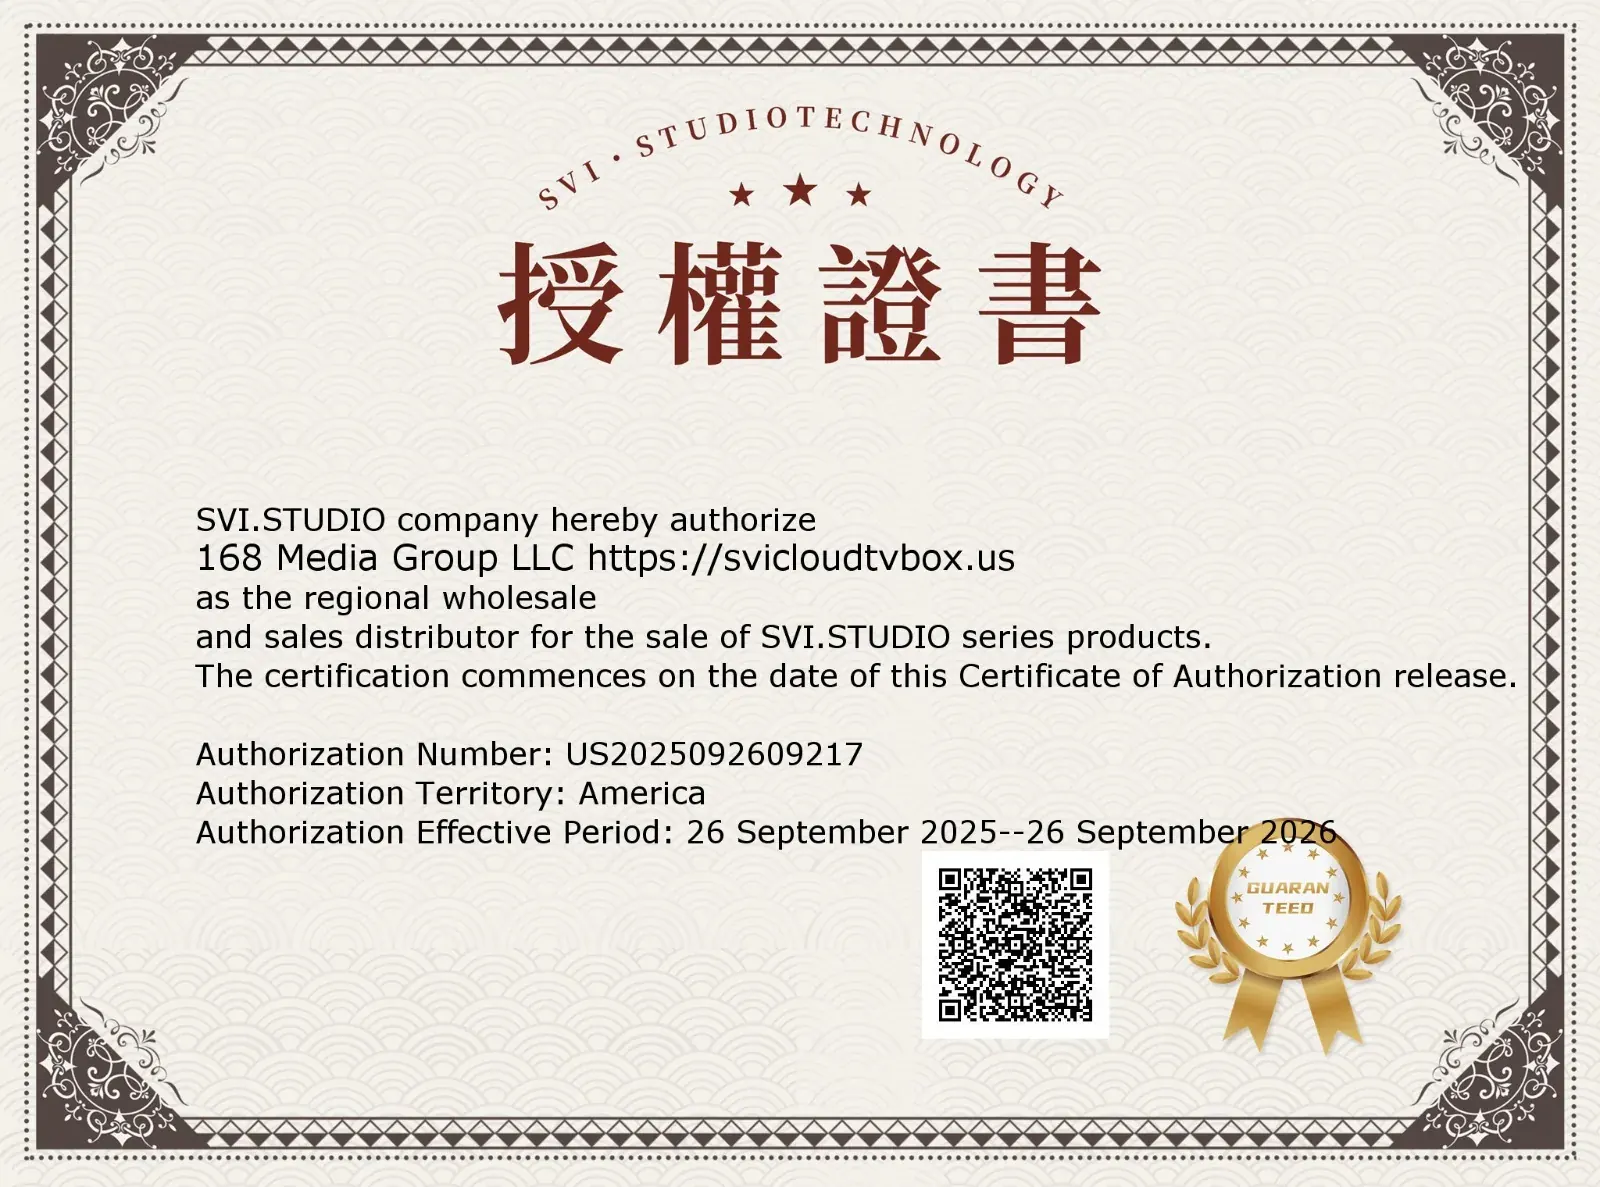
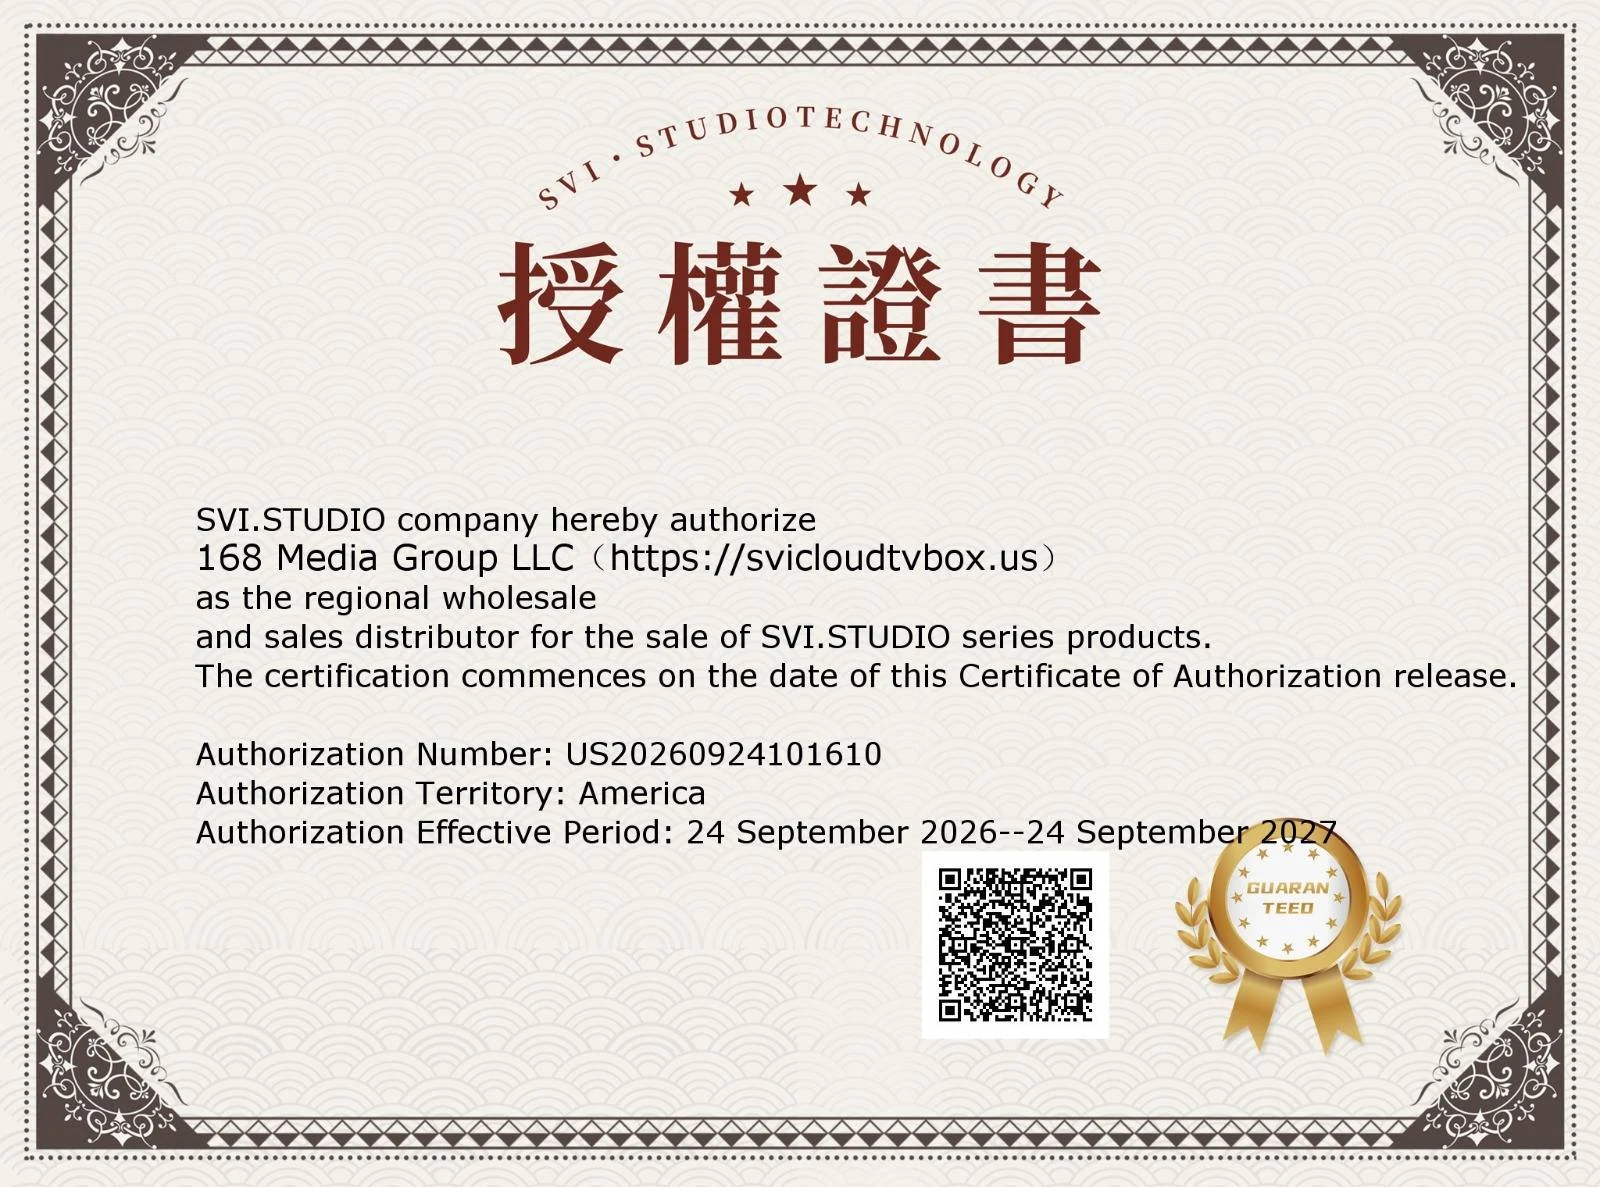
feat(theme): update authorized dealer certificate

diff --git a/theme/svicloudtvbox-lumen/lang/zh_CN.php b/theme/svicloudtvbox-lumen/lang/zh_CN.php
@@ -831,15 +831,15 @@ $overrides = [
             'meta' => [
                 'number' => [
                     'label' => '授权编号',
-                    'value' => 'US2025092609217',
+                    'value' => 'US20260924101610',
                 ],
                 'territory' => [
                     'label' => '授权区域',
-                    'value' => '美洲（Americas）',
+                    'value' => 'America（美洲）',
                 ],
                 'term' => [
                     'label' => '有效期间',
-                    'value' => '2025 年 9 月 26 日 - 2026 年 9 月 26 日',
+                    'value' => '2026 年 9 月 24 日 - 2027 年 9 月 24 日',
                 ],
             ],
             'footnote' => '此证书由 SVI.STUDIO 核发，内容与原件完全一致。',

diff --git a/theme/svicloudtvbox-lumen/lang/zh_TW.php b/theme/svicloudtvbox-lumen/lang/zh_TW.php
@@ -1068,15 +1068,15 @@ return [
             'meta' => [
                 'number' => [
                     'label' => '授權編號',
-                    'value' => 'US2025092609217',
+                    'value' => 'US20260924101610',
                 ],
                 'territory' => [
                     'label' => '授權區域',
-                    'value' => '美洲（Americas）',
+                    'value' => 'America（美洲）',
                 ],
                 'term' => [
                     'label' => '有效期間',
-                    'value' => '2025 年 9 月 26 日 - 2026 年 9 月 26 日',
+                    'value' => '2026 年 9 月 24 日 - 2027 年 9 月 24 日',
                 ],
             ],
             'footnote' => '此證書由 SVI.STUDIO 核發，內容與原件完全一致。',

diff --git a/theme/svicloudtvbox-lumen/lang/en_US.php b/theme/svicloudtvbox-lumen/lang/en_US.php
@@ -951,15 +951,15 @@ return [
             'meta' => [
                 'number' => [
                     'label' => 'Authorization No.',
-                    'value' => 'US2025092609217',
+                    'value' => 'US20260924101610',
                 ],
                 'territory' => [
                     'label' => 'Territory',
-                    'value' => 'Americas',
+                    'value' => 'America',
                 ],
                 'term' => [
                     'label' => 'Effective dates',
-                    'value' => 'September 26, 2025 - September 26, 2026',
+                    'value' => 'September 24, 2026 - September 24, 2027',
                 ],
             ],
             'footnote' => 'Presented exactly as issued by SVI.STUDIO to 168 Media Group LLC / SVICLOUDTVBOX.US.',
